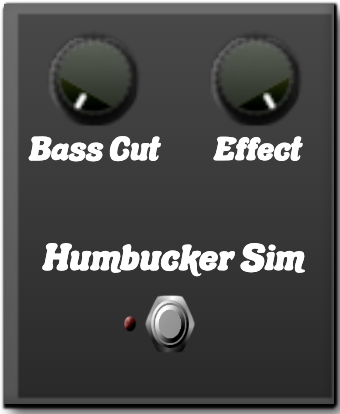
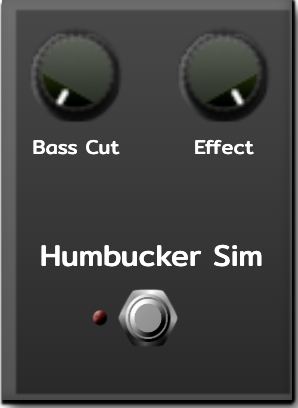
Humbucker style

diff --git a/jordan-SINTES/humbucker/main.html b/jordan-SINTES/humbucker/main.html
@@ -1,3 +1,5 @@
+<link rel="stylesheet"
+          href="https://fonts.googleapis.com/css?family=Mitr">
 <script
     src="https://wasabi.i3s.unice.fr/WebAudioPluginBank/bower_components/webaudio-controls2/webcomponents-lite.js"></script>
 <script>
@@ -9,23 +11,19 @@
     src="https://wasabi.i3s.unice.fr/WebAudioPluginBank/bower_components/webaudio-controls2/webaudio-controls.js"></script>
 <template>
     <style>
-        @font-face {
-            font-family: 'Gecko Lunch';
-            src: url('assets/font/GeckoLunch.ttf') format('truetype');
-            font-weight: normal;
-            font-style: normal;
-        }
 
         :host {
             display: block;
             box-shadow: 4px 5px 6px rgba(0, 0, 0, 0.7), inset -2px -2px 5px 0px rgba(0, 0, 0, 0.2), inset 3px 1px 1px 4px rgba(255, 255, 255, 0.2), 1px 0px 1px 0px rgba(0, 0, 0, 0.9), 0 2px 1px 0 rgba(0, 0, 0, 0.9), 1px 1px 1px 0px rgba(0, 0, 0, 0.9);
             background: linear-gradient(rgb(73, 73, 73), rgb(41, 41, 41));
             position: relative;
-            width: 165px;
+            width: 145px;
             height: 200px;
             user-select: none;
             cursor: move;
             z-index: 9;
+            font-family: 'Mitr';
+            font-size: 10px;
             /* bring your own prefixes */
         }
 
@@ -73,8 +71,7 @@
         .pedalLabel {
             margin-left: 19px;
             top: 225px;
-            font-size: 18px;
-            font-family: Gecko Lunch;
+            font-size: 15px;
             /*{font}*/
             text-align: center;
             line-height: 30px;
@@ -90,19 +87,19 @@
             <div class="knob" id="Bass Cut">
                 <webaudio-knob src="assets/img/knobs/greenish_sloped.png" height="50" width="50" sprites="100" min="20"
                     max="720" step="0.001" value="20" id="/humbucker/Bass_Cut" style="height: 50px;"></webaudio-knob>
-                <div style="text-align:center; font-family: Gecko Lunch; color: rgb(255, 255, 255);">Bass Cut</div>
+                <div style="text-align:center; color: rgb(255, 255, 255);">Bass Cut</div>
             </div>
             <div class="knob " id="Humbuckerize">
                 <webaudio-knob src="assets/img/knobs/greenish_sloped.png" height="50" width="50" sprites="100" min="0"
                     max="1" step="0.001" value="1" id="/humbucker/Humbuckerize" style="height: 50px;"></webaudio-knob>
-                <div style="text-align:center; font-family: Gecko Lunch; color: rgb(255, 255, 255);">Effect</div>
+                <div style="text-align:center; color: rgb(255, 255, 255);">Effect</div>
             </div>
         </div>
 
         <span class="pedalLabel">Humbucker Sim</span>
         <div class="switch  selected" id="bypass">
             <webaudio-switch src="assets/img/switches/switch_1.png" height="32"
-                width="50" id="switch1"></webaudio-switch>
+                width="60" id="switch1"></webaudio-switch>
 
         </div>
     </div>
